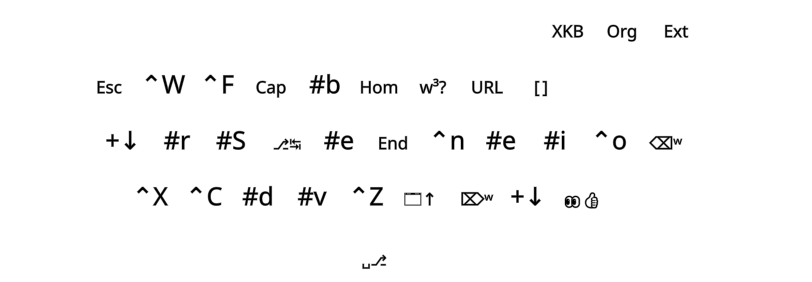
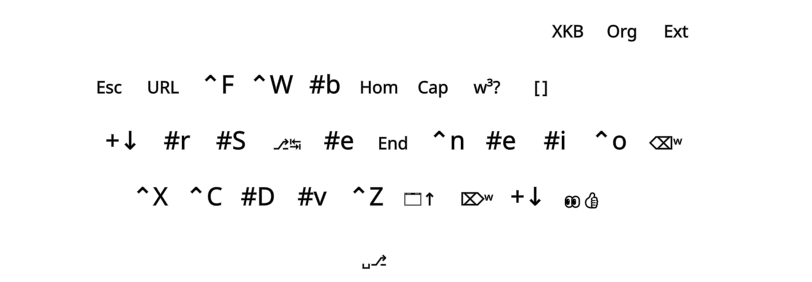
WheelUp/Dn on Ext-Tap
* Added WheelUp/Dn on Ext-Tap, on keys like in the Ext layer but *2 -> *3
* Should be handy for scrolling (web) pages, together with the existing mappings

diff --git a/Layouts/Gallium/README.md b/Layouts/Gallium/README.md
@@ -77,17 +77,14 @@ Gallium variants
 
 - Apart from QX, the sole difference between the left hand of Gallium and Graphite is CV vs WZ on the upper/lower row.
 - Graphite's C-V (low) and W (up) look easier to learn for Colemak or QWERTY users, by preserving their row assignments.
-- For me though, the `QW_F`-`QW_R` bigram is much easier than its downward counterpart, being altable on a row-stag board.
-- Therefore, I'm mostly with Gallium moving C up to make the `SC/CS` bigrams easier, at the cost of the rarer `SW/WS` ones.
-- Here's an AKL Discord server analysis of the frequencies involved, using their `cmini` bot with the Shai corpus:
+- The `QW_F`-`QW_R` bigram is easier than its downward counterpart for me though, being more altable on a row-stag board.
+- Thus, it depends on your priorities and tastes.
+- Here's an AKL Discord server `cmini` bot analysis of the `S-C` vs `S-W` bigram frequencies involved (the others are rare):
 
 ```
-sc + cs: 0.13%
-  sc: 0.11%
-  cs: 0.02%
-sw + ws: 0.07%
-  sw: 0.03%
-  ws: 0.04%
+Using the Shai corpus:
+sc + cs: 0.13%    ( sc: 0.11% , cs: 0.02% )
+sw + ws: 0.07%    ( sw: 0.03% , ws: 0.04% )
 ```
 <br>
 

diff --git a/README.md b/README.md
@@ -406,7 +406,7 @@ The layouts and setup files may take a little tweaking to get what you want. The
 |  - There are two equivalent prefixes for each entry type: One easy-to-type ASCII, one from the eD Shift+AltGr layer.  |
 |      →  |  %  : Send a literal string/ligature by the SendInput {Text} method                                         |
 |      §  |  $  : Send a literal string/ligature by the SendMessage method                                              |
-|      α  |  *  : Send ‹entry› as AHK syntax in which !+^# are modifiers, and {} contain key names                      |
+|      α  |  *  : Send ‹entry› as AHK syntax in which +^!# are modifiers, and {} contain key names                      |
 |      β  |  =  : Send {Blind}‹entry›, keeping the current modifier state                                               |
 |      †  |  ~  : Send the hex Unicode point U+<entry> (normally but not necessarily 4-digit)                           |
 |      Ð  |  @  : Send the current layout's dead key named ‹entry› (often a 3-character code)                           |

diff --git a/Files/README.md b/Files/README.md
@@ -22,7 +22,7 @@ Overview over the EPKL Prefix-Entry and other advanced syntax for mappings, usea
 |  - There are two equivalent prefixes for each entry type: One easy-to-type ASCII, one from the eD Shift+AltGr layer.  |
 |      →  |  %  : Send a literal string/ligature by the SendInput {Text} method                                         |
 |      §  |  $  : Send a literal string/ligature by the SendMessage method                                              |
-|      α  |  *  : Send ‹entry› as AHK syntax in which !+^# are modifiers, and {} contain key names                      |
+|      α  |  *  : Send ‹entry› as AHK syntax in which +^!# are modifiers, and {} contain key names                      |
 |      β  |  =  : Send {Blind}‹entry›, keeping the current modifier state                                               |
 |      †  |  ~  : Send the hex Unicode point U+<entry> (normally but not necessarily 4-digit)                           |
 |      Ð  |  @  : Send the current layout's dead key named ‹entry› (often a 3-character code)                           |

diff --git a/Layouts/README.md b/Layouts/README.md
@@ -65,7 +65,7 @@ Where:
     - If the mapping starts with `«#»` where # is one or more characters, these are used for Help Images.
     - `→ | % ‹entry›` : Send a literal string/ligature by the SendInput {Text}‹entry› method
     - `§ | $ ‹entry›` : Send a literal string/ligature by the SendMessage ‹entry› method
-    - `α | * ‹entry›` : Send entry as AHK syntax in which !+^# are modifiers, and {} contain key names
+    - `α | * ‹entry›` : Send entry as AHK syntax in which +^!# are modifiers, and {} contain key names
     - `β | = ‹entry›` : Send {Blind}‹entry›, keeping the current modifier state
     - `† | ~ ‹entry›` : Send the 4-digit hex Unicode point U+<entry>
     - `Ð | @ ‹entry›` : Send the current layout's dead key named ‹entry› (often a 3-character code)

diff --git a/Source/EPKL_Source/README.md b/Source/EPKL_Source/README.md
@@ -582,3 +582,6 @@ VERSION HISTORY:
 	- The menuIconList function from Source\Extras was internalized, callable as the "debug" function. It shows icons and their positions in any file.
 	- Added Ukrainian "Ukromak" (Cmk-Ukr), based on a commit by Grenudi (https://github.com/DreymaR/BigBagKbdTrixPKL/pull/92).
 		- Switched all Kyr script locale codes from 2-letter to 3-letter ISO codes (ISO 639-1 to 639-2): Ru-Rus, Uk-Ukr, Bg-Bul.
+	- Added WheelUp/Dn to Ext-tap, on the same keys as on Ext (Cmk W/R). Moves on Cmk: `Cap` Pp → Ll, `^w` Ww → Pp, `w³?` L → U.
+		- This is handy for scrolling (web) pages, in conjunction with the other Ext/Ext-Tap MouseWheel and PgUp/Dn mappings.
+
